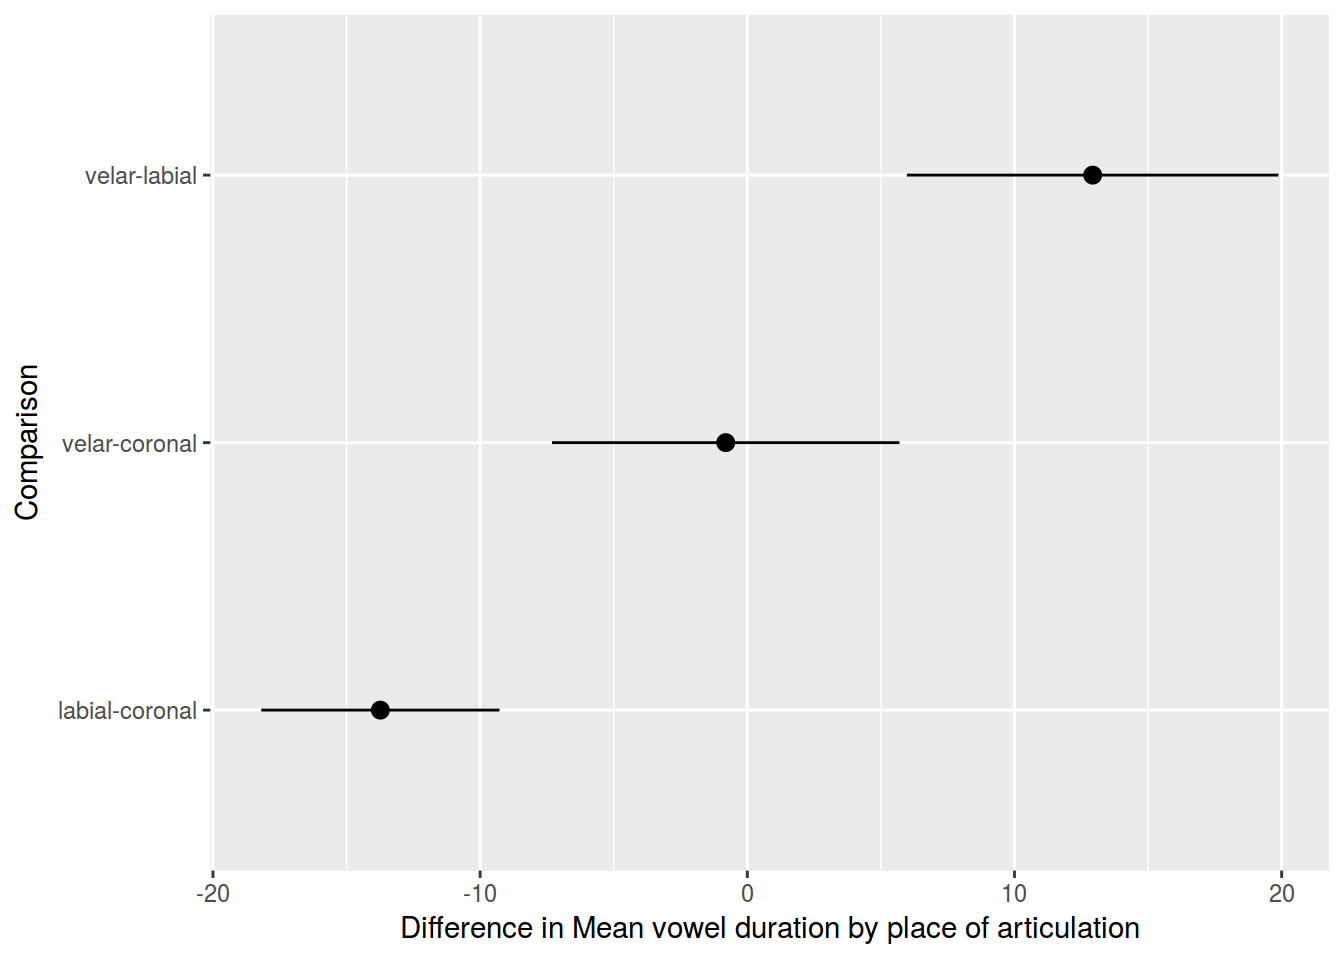
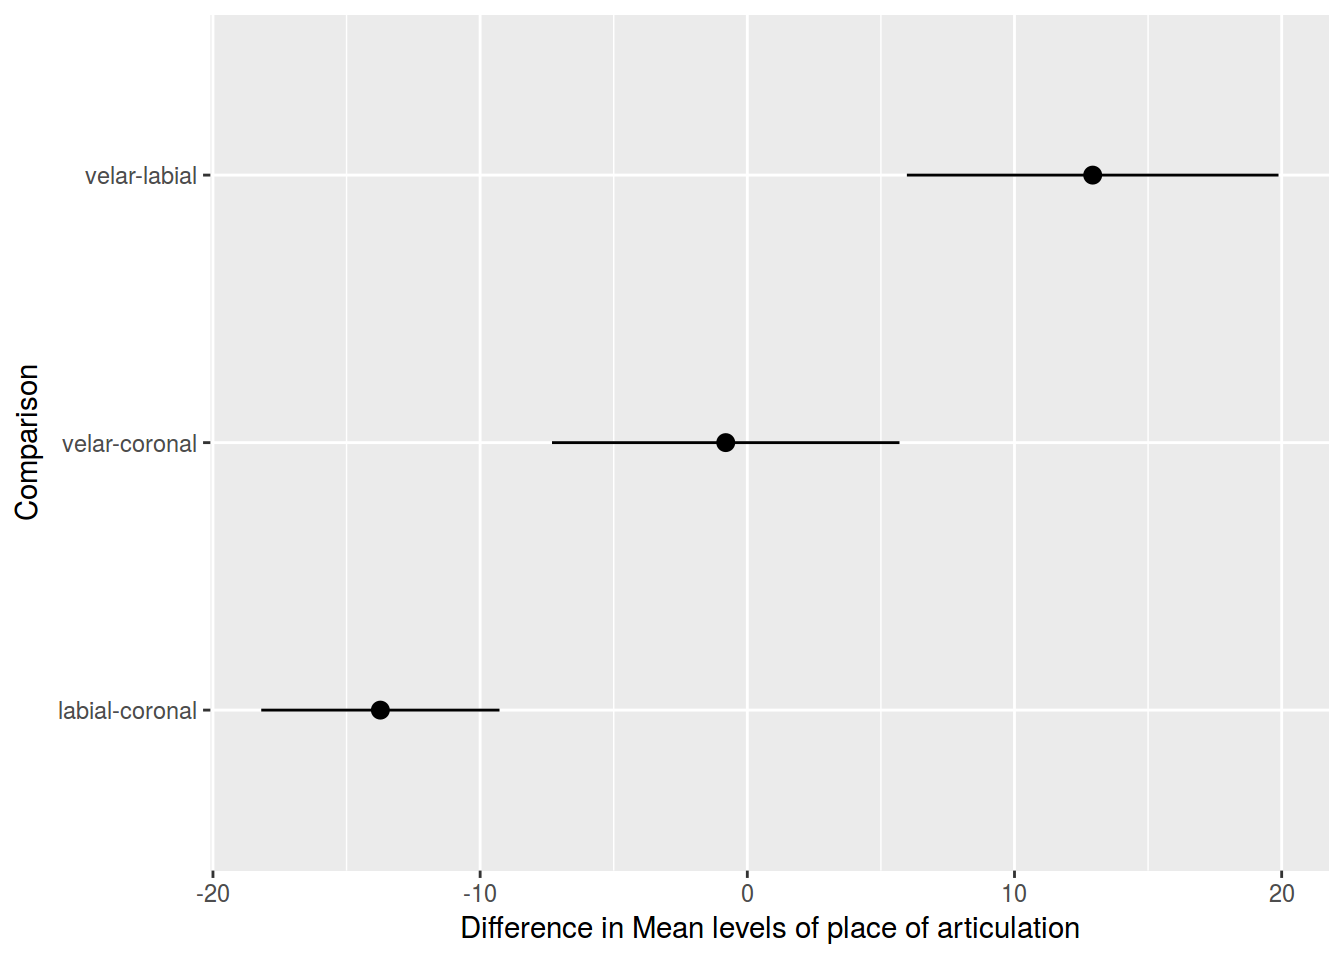
Lab 8

Changed region(s): [[0.2812, 0.9375, 0.8438, 1.0]]

diff --git a/docs/Lab_8.html b/docs/Lab_8.html
@@ -11,7 +11,7 @@
 
 
 
-<title>Lab 8. Dummy variables. Anova</title>
+<title>Lab 8. Dummy variables. ANOVA</title>
 
 <script src="site_libs/jquery-1.11.3/jquery.min.js"></script>
 <meta name="viewport" content="width=device-width, initial-scale=1" />
@@ -247,7 +247,7 @@ $(document).ready(function () {
 
 
 
-<h1 class="title toc-ignore">Lab 8. Dummy variables. Anova</h1>
+<h1 class="title toc-ignore">Lab 8. Dummy variables. ANOVA</h1>
 
 </div>
 
@@ -257,10 +257,106 @@ $(document).ready(function () {
 <pre class="r"><code>library(tidyverse)</code></pre>
 <div id="section" class="section level3">
 <h3>1.</h3>
+<pre class="r"><code>df &lt;- read.csv(&quot;http://goo.gl/0btfKa&quot;)
+
+df %&gt;% 
+  ggplot(aes(ejectives, n.cons.lapsyd, color = ejectives))+
+  geom_jitter(width = 0.2)+
+  labs(title = &quot;Number of consonants ~ presence of ejectives&quot;,
+       x = &quot;presence of ejectives&quot;,
+       y = &quot;number of consonants&quot;)</code></pre>
+<p><img src="Lab_8_files/figure-html/unnamed-chunk-2-1.png" width="672" /></p>
+<pre class="r"><code>df %&gt;% 
+  group_by(ejectives) %&gt;% 
+  summarise(mean(n.cons.lapsyd))</code></pre>
+<pre><code>## # A tibble: 2 × 2
+##   ejectives `mean(n.cons.lapsyd)`
+##      &lt;fctr&gt;                 &lt;dbl&gt;
+## 1        no              19.05882
+## 2       yes              34.40000</code></pre>
+<pre class="r"><code>fit &lt;- lm(n.cons.lapsyd~ejectives, data = df)
+summary(fit)</code></pre>
+<pre><code>## 
+## Call:
+## lm(formula = n.cons.lapsyd ~ ejectives, data = df)
+## 
+## Residuals:
+##     Min      1Q  Median      3Q     Max 
+## -14.400  -4.229  -1.059   2.441  23.600 
+## 
+## Coefficients:
+##              Estimate Std. Error t value Pr(&gt;|t|)    
+## (Intercept)    19.059      1.953   9.758 5.25e-10 ***
+## ejectivesyes   15.341      3.209   4.780 6.59e-05 ***
+## ---
+## Signif. codes:  0 &#39;***&#39; 0.001 &#39;**&#39; 0.01 &#39;*&#39; 0.05 &#39;.&#39; 0.1 &#39; &#39; 1
+## 
+## Residual standard error: 8.053 on 25 degrees of freedom
+## Multiple R-squared:  0.4775, Adjusted R-squared:  0.4566 
+## F-statistic: 22.85 on 1 and 25 DF,  p-value: 6.588e-05</code></pre>
+<pre class="r"><code>fit$coefficients</code></pre>
+<pre><code>##  (Intercept) ejectivesyes 
+##     19.05882     15.34118</code></pre>
 </div>
 <div id="section-1" class="section level3">
 <h3>2.</h3>
-<p><img src="Lab_8_files/figure-html/unnamed-chunk-5-1.png" width="672" /><img src="Lab_8_files/figure-html/unnamed-chunk-5-2.png" width="672" /></p>
+<pre class="r"><code>df &lt;- read.csv(&quot;https://goo.gl/7gIjvK&quot;)
+
+df %&gt;% 
+  ggplot(aes(place, vowel.dur))+
+  geom_boxplot(outlier.alpha = 0.2)+
+  geom_point(alpha = 0.2)+
+  labs(title = &quot;Vowel duration by place of articulation&quot;,
+       caption = &quot;Data from (Coretta 2017)&quot;,
+       x = &quot;place of articulation&quot;,
+       y = &quot;vowel duration&quot;)</code></pre>
+<p><img src="Lab_8_files/figure-html/unnamed-chunk-3-1.png" width="672" /></p>
+<pre class="r"><code>fit &lt;- aov(vowel.dur~place, data = df)
+summary(fit)</code></pre>
+<pre><code>##              Df Sum Sq Mean Sq F value   Pr(&gt;F)    
+## place         2  31819   15909   27.24 3.59e-12 ***
+## Residuals   803 469031     584                     
+## ---
+## Signif. codes:  0 &#39;***&#39; 0.001 &#39;**&#39; 0.01 &#39;*&#39; 0.05 &#39;.&#39; 0.1 &#39; &#39; 1</code></pre>
+<pre class="r"><code>fit$coefficients</code></pre>
+<pre><code>## (Intercept) placelabial  placevelar 
+##  91.0020703 -13.7344148  -0.8073382</code></pre>
+<pre class="r"><code>df %&gt;% 
+  group_by(place) %&gt;% 
+  summarise(mean(vowel.dur))</code></pre>
+<pre><code>## # A tibble: 3 × 2
+##     place `mean(vowel.dur)`
+##    &lt;fctr&gt;             &lt;dbl&gt;
+## 1 coronal          91.00207
+## 2  labial          77.26766
+## 3   velar          90.19473</code></pre>
+<pre class="r"><code>tk &lt;- TukeyHSD(fit)
+# fast visualization
+plot(tk)</code></pre>
+<p><img src="Lab_8_files/figure-html/unnamed-chunk-4-1.png" width="672" /></p>
+<pre class="r"><code># ggplot
+tk &lt;- data.frame(tk$place)
+tk$Comparison &lt;- row.names(tk)
+
+tk %&gt;% 
+  ggplot(aes(Comparison, y = diff, ymin = lwr, ymax = upr)) +
+  geom_pointrange() +
+  ylab(&quot;Difference in Mean levels of place of articulation&quot;) +
+  coord_flip()</code></pre>
+<p><img src="Lab_8_files/figure-html/unnamed-chunk-4-2.png" width="672" /></p>
+<pre class="r"><code>m1 &lt;- lm(cdi~tv.hours, data = tv)
+summary(m1)
+m2 &lt;- lm(cdi~mot.education, data = tv)
+summary(m2)
+m3 &lt;- lm(cdi~tv.hours+mot.education, data = tv)
+summary(m3)
+m4 &lt;- lm(cdi~., data = tv[,-1])
+summary(m4)</code></pre>
+<pre class="r"><code>tv %&gt;% 
+  ggplot(aes(tv.hours, cdi))+
+  geom_smooth(method=&quot;lm&quot;)+
+  geom_point()+
+  facet_wrap(~tv$book.reading)</code></pre>
 </div>
 </div>
 
